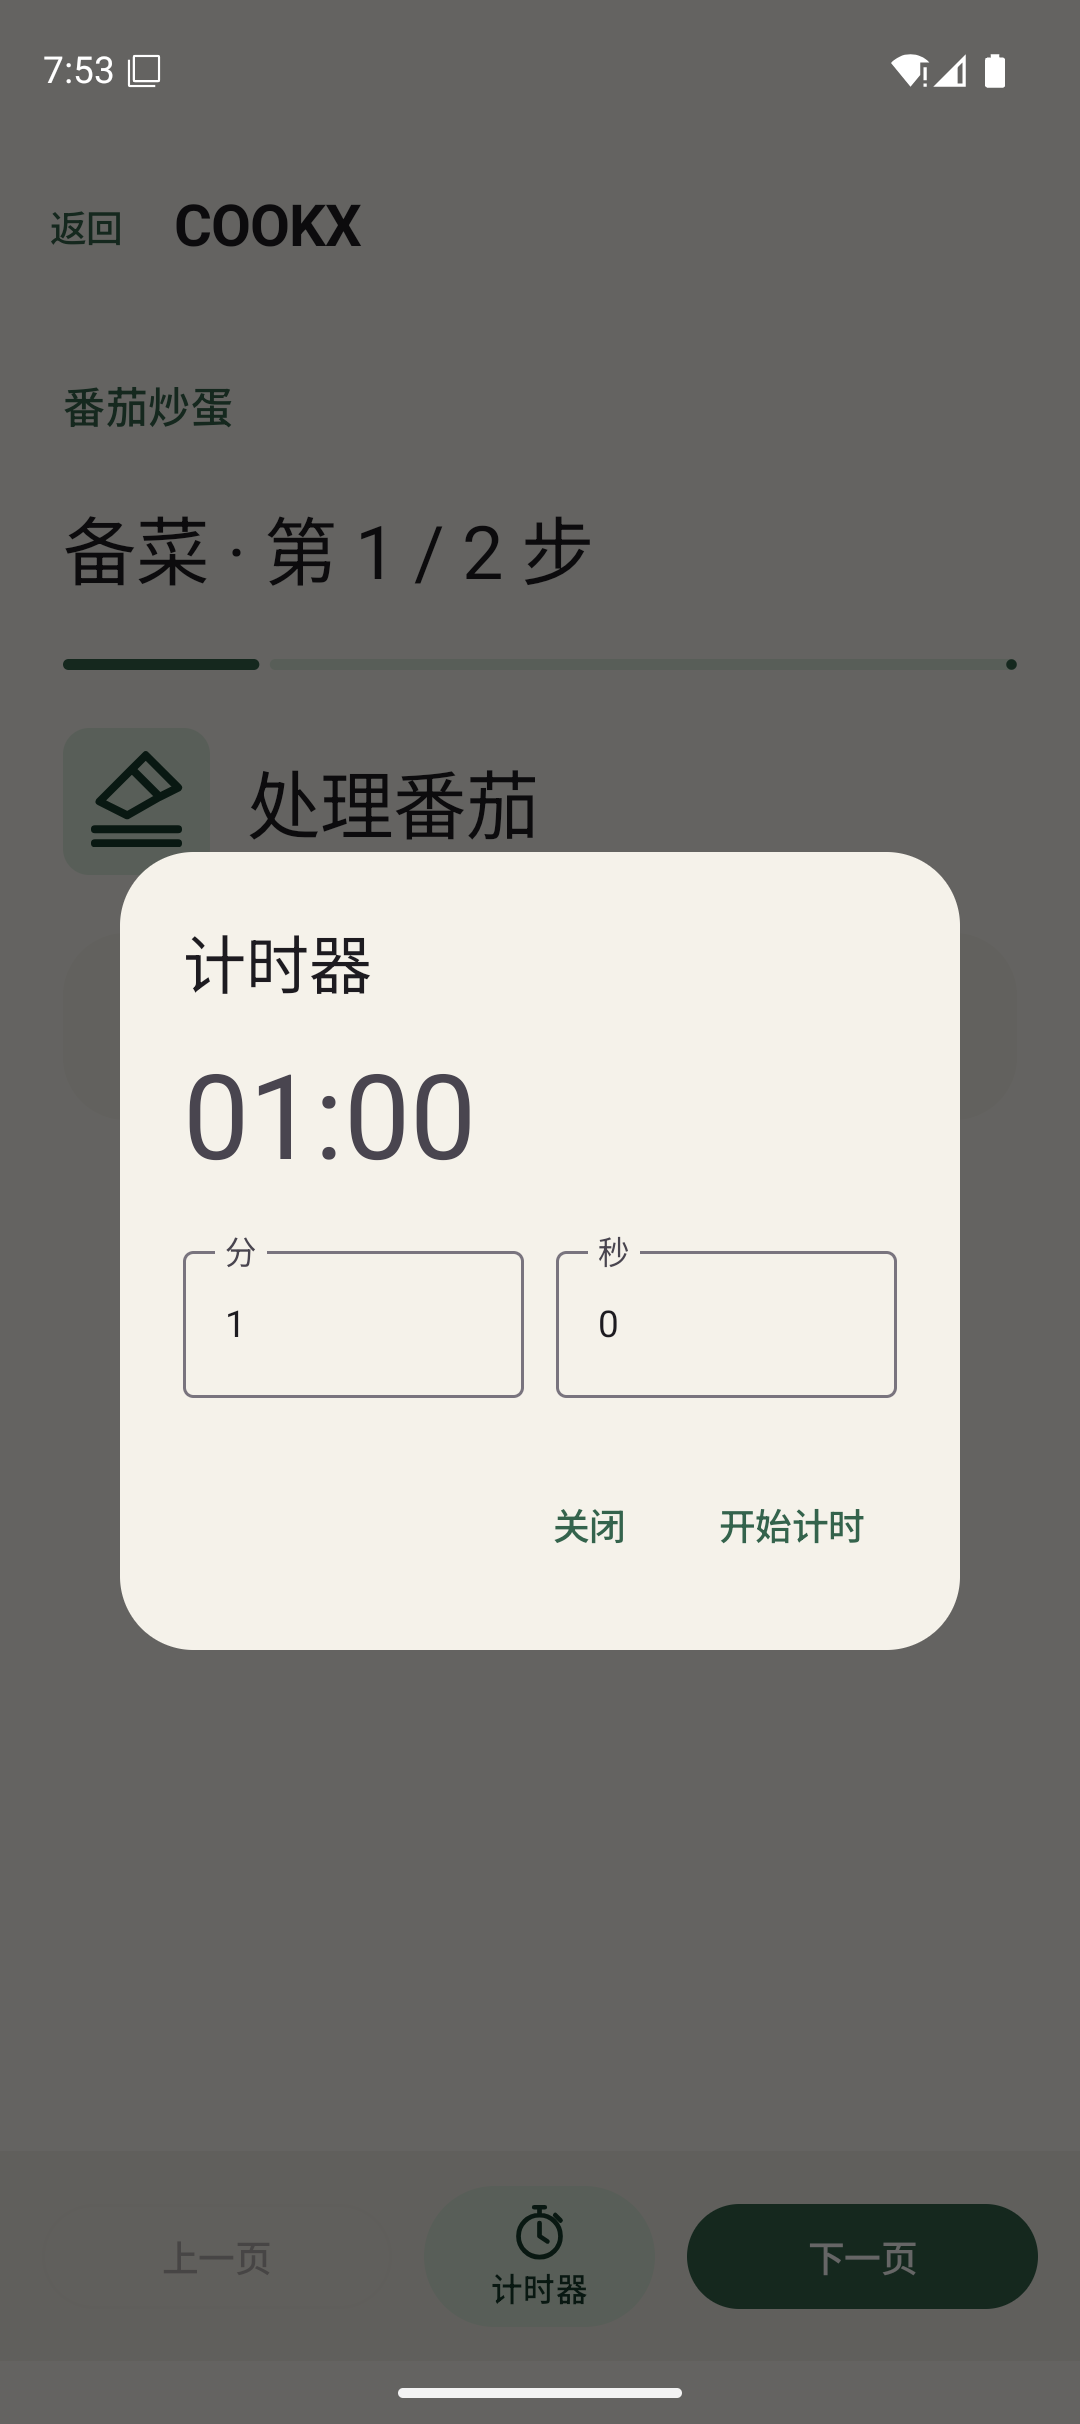
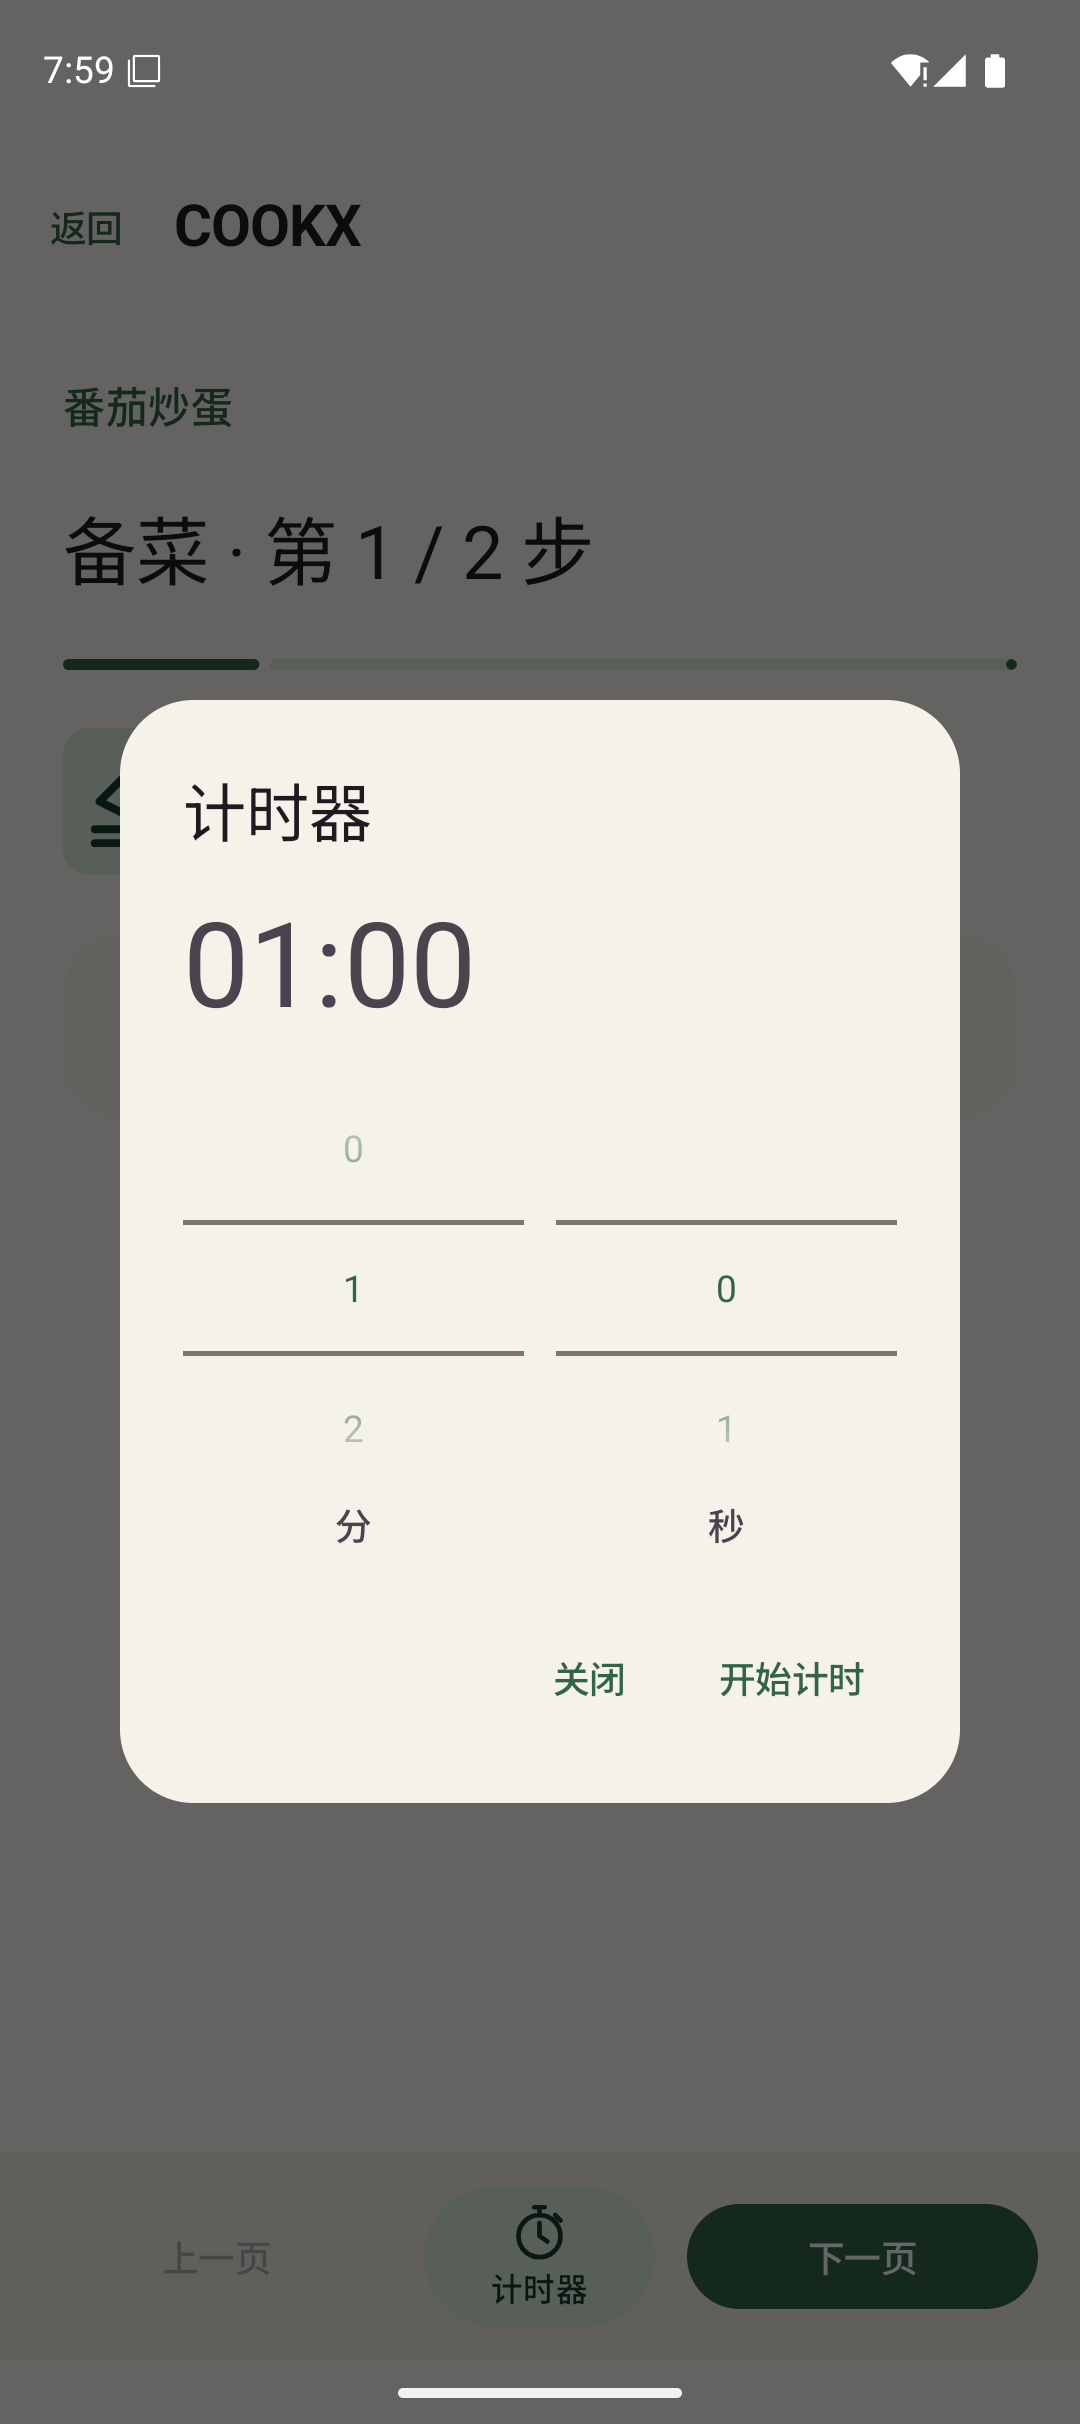
style: set cooking timer duration with scroll wheels

diff --git a/app/src/main/kotlin/com/cookx/app/ui/CookingTimerDialog.kt b/app/src/main/kotlin/com/cookx/app/ui/CookingTimerDialog.kt
@@ -2,14 +2,18 @@ package com.cookx.app.ui
 
 import androidx.compose.foundation.layout.*
 import androidx.compose.foundation.rememberScrollState
-import androidx.compose.foundation.text.KeyboardOptions
 import androidx.compose.foundation.verticalScroll
 import androidx.compose.material3.*
 import androidx.compose.runtime.*
 import androidx.compose.runtime.saveable.rememberSaveable
 import androidx.compose.ui.Modifier
+import androidx.compose.ui.Alignment
+import androidx.compose.ui.graphics.toArgb
+import androidx.compose.ui.viewinterop.AndroidView
+import android.os.Build
+import android.view.ViewGroup
+import android.widget.NumberPicker
 import androidx.compose.ui.platform.testTag
-import androidx.compose.ui.text.input.KeyboardType
 import androidx.compose.ui.unit.dp
 import java.util.Locale
 
@@ -17,34 +21,45 @@ internal fun timerText(seconds: Long) = String.format(Locale.ROOT, "%02d:%02d", 
 
 @Composable internal fun CookingTimerDialog(defaultSeconds: Int, startCondition: String?, running: Boolean, remaining: Long,
     dismiss: () -> Unit, stop: () -> Unit, start: (Int) -> Unit) {
-    var minutes by rememberSaveable { mutableStateOf((defaultSeconds / 60).toString()) }
-    var seconds by rememberSaveable { mutableStateOf((defaultSeconds % 60).toString()) }
-    var error by rememberSaveable { mutableStateOf<String?>(null) }
-    val duration = minutes.toLongOrNull()?.let { min -> seconds.toLongOrNull()?.let { sec ->
-        (min * 60 + sec).takeIf { min in 0..35_791_393 && sec in 0..59 && it in 1..Int.MAX_VALUE }
-    } }
+    var minutes by rememberSaveable { mutableIntStateOf(defaultSeconds / 60) }
+    var seconds by rememberSaveable { mutableIntStateOf(defaultSeconds % 60) }
+    val duration = minutes.toLong() * 60 + seconds
     AlertDialog(onDismissRequest = dismiss, containerColor = MaterialTheme.colorScheme.surfaceContainerLow, title = { Text("计时器") }, text = {
         Column(Modifier.verticalScroll(rememberScrollState()), verticalArrangement = Arrangement.spacedBy(16.dp)) {
-            Text(timerText(if (running) remaining else duration ?: defaultSeconds.toLong()),
+            Text(timerText(if (running) remaining else duration),
                 style = MaterialTheme.typography.displayMedium, modifier = Modifier.testTag("timerDisplay"))
             if (!running) {
                 Row(horizontalArrangement = Arrangement.spacedBy(12.dp)) {
-                    OutlinedTextField(minutes, { minutes = it; error = null }, label = { Text("分") },
-                        keyboardOptions = KeyboardOptions(keyboardType = KeyboardType.Number), singleLine = true,
-                        modifier = Modifier.weight(1f).testTag("timerMinutes"))
-                    OutlinedTextField(seconds, { seconds = it; error = null }, label = { Text("秒") },
-                        keyboardOptions = KeyboardOptions(keyboardType = KeyboardType.Number), singleLine = true,
-                        modifier = Modifier.weight(1f).testTag("timerSeconds"))
+                    TimerWheel(minutes, Int.MAX_VALUE / 60, "分", "timerMinutes", Modifier.weight(1f)) { minutes = it }
+                    TimerWheel(seconds, 59, "秒", "timerSeconds", Modifier.weight(1f)) { seconds = it }
                 }
                 startCondition?.let { Text(it, style = MaterialTheme.typography.bodyMedium) }
             }
-            error?.let { Text(it, color = MaterialTheme.colorScheme.error) }
         }
     }, confirmButton = {
         if (running) TextButton(onClick = stop) { Text("停止计时") }
-        else TextButton(onClick = {
-            if (duration == null) error = "请填写有效时长，秒数为 0–59"
-            else start(duration.toInt())
-        }) { Text("开始计时") }
+        else TextButton(onClick = { start(duration.toInt()) }, enabled = duration in 1..Int.MAX_VALUE) { Text("开始计时") }
     }, dismissButton = { TextButton(onClick = dismiss) { Text("关闭") } })
+}
+
+@Composable private fun TimerWheel(value: Int, maximum: Int, label: String, tag: String, modifier: Modifier,
+    change: (Int) -> Unit) {
+    val color = MaterialTheme.colorScheme.primary.toArgb()
+    val onChange by rememberUpdatedState(change)
+    Column(modifier, horizontalAlignment = Alignment.CenterHorizontally) {
+        AndroidView(modifier = Modifier.fillMaxWidth().height(160.dp).testTag(tag), factory = { context ->
+            NumberPicker(context).apply {
+                minValue = 0
+                maxValue = maximum
+                wrapSelectorWheel = false
+                descendantFocusability = ViewGroup.FOCUS_BLOCK_DESCENDANTS
+                contentDescription = label
+                setOnValueChangedListener { _, _, next -> onChange(next) }
+            }
+        }, update = { picker ->
+            if (picker.value != value) picker.value = value
+            if (Build.VERSION.SDK_INT >= 29) picker.textColor = color
+        })
+        Text(label, style = MaterialTheme.typography.titleSmall)
+    }
 }

diff --git a/app/src/androidTest/kotlin/com/cookx/app/StructuredPlaybackTest.kt b/app/src/androidTest/kotlin/com/cookx/app/StructuredPlaybackTest.kt
@@ -3,6 +3,8 @@ package com.cookx.app
 import androidx.compose.foundation.layout.Box
 import androidx.compose.foundation.layout.safeDrawingPadding
 import androidx.compose.ui.Modifier
+import androidx.compose.ui.semantics.SemanticsProperties
+import org.junit.Assert.assertNotEquals
 import androidx.compose.ui.test.*
 import androidx.compose.ui.test.junit4.createComposeRule
 import androidx.compose.ui.test.junit4.StateRestorationTester
@@ -61,8 +63,13 @@ class StructuredPlaybackTest {
         restore.emulateSavedInstanceStateRestore()
         compose.onNodeWithTag("timerDisplay").assertTextEquals("01:00")
         compose.onNodeWithText("开始计时").assertIsDisplayed()
-        compose.onNodeWithTag("timerMinutes").performTextReplacement("0")
-        compose.onNodeWithTag("timerSeconds").performTextReplacement("45")
+        compose.onNodeWithTag("timerSeconds").performTouchInput { swipeUp() }
+        compose.waitForIdle()
+        val selected = compose.onNodeWithTag("timerDisplay").fetchSemanticsNode().config[SemanticsProperties.Text].single().text
+        assertNotEquals("01:00", selected)
+        compose.onNodeWithText("停止计时").assertDoesNotExist()
+        restore.emulateSavedInstanceStateRestore()
+        compose.onNodeWithTag("timerDisplay").assertTextEquals(selected)
         compose.onNodeWithText("开始计时").assertIsDisplayed().performClick()
         compose.onNodeWithTag("openCookingTimer").performClick()
         compose.onNodeWithText("停止计时").assertIsDisplayed()
